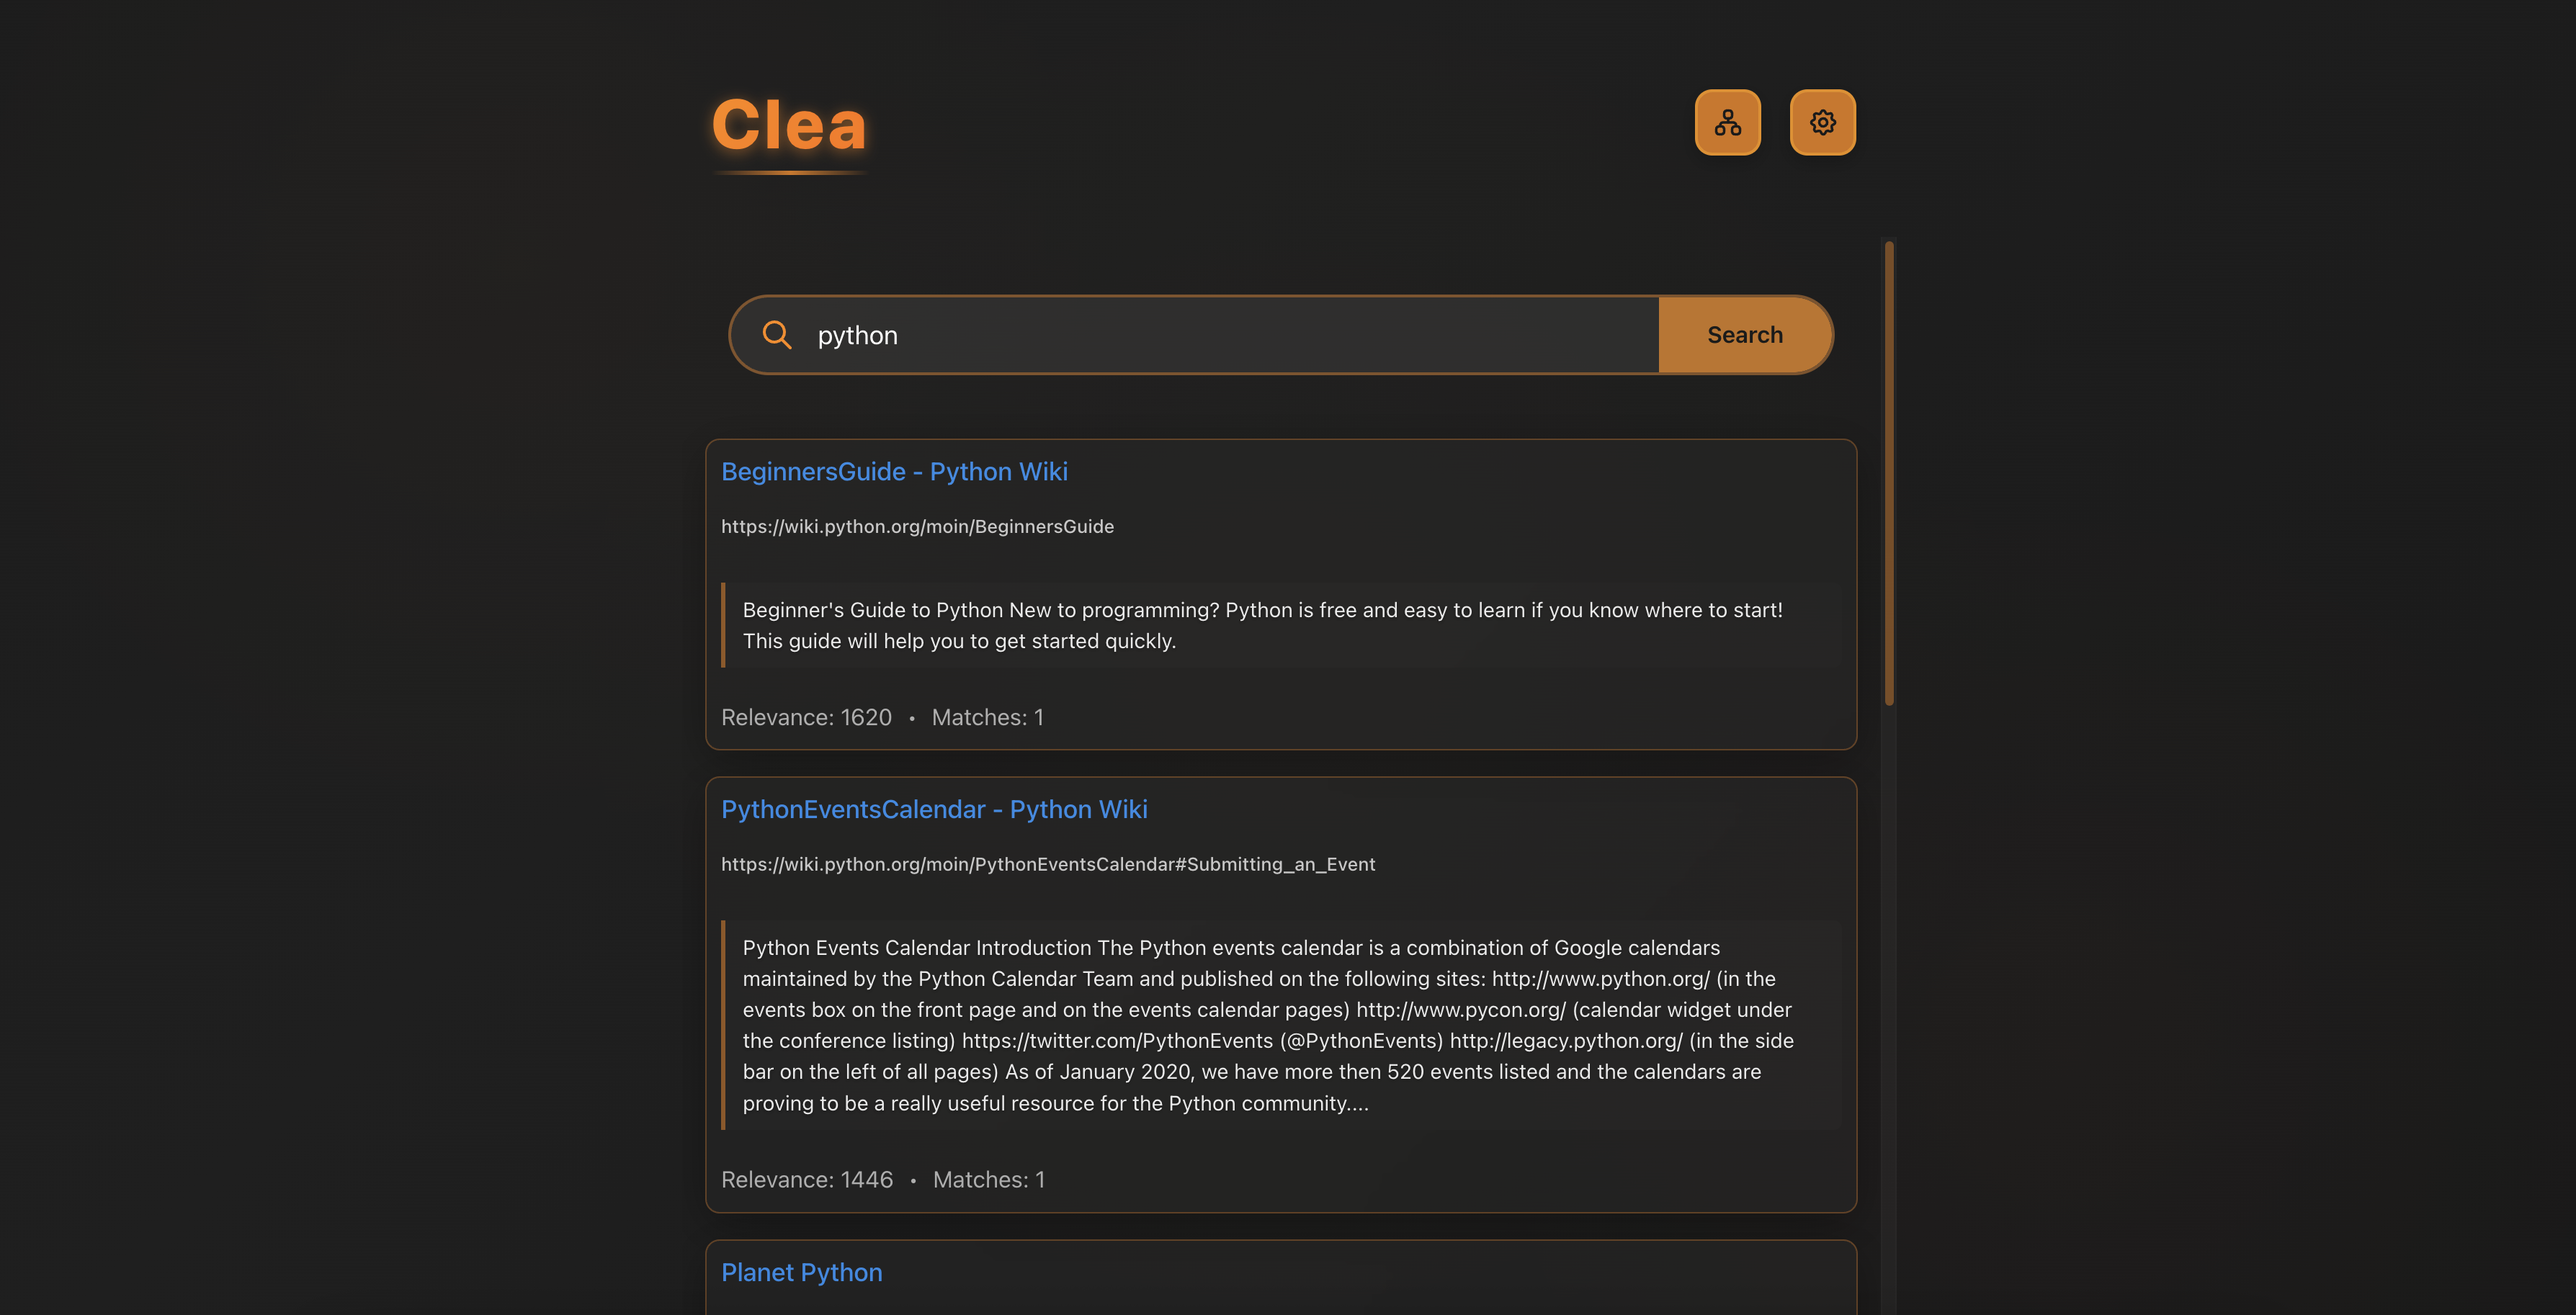
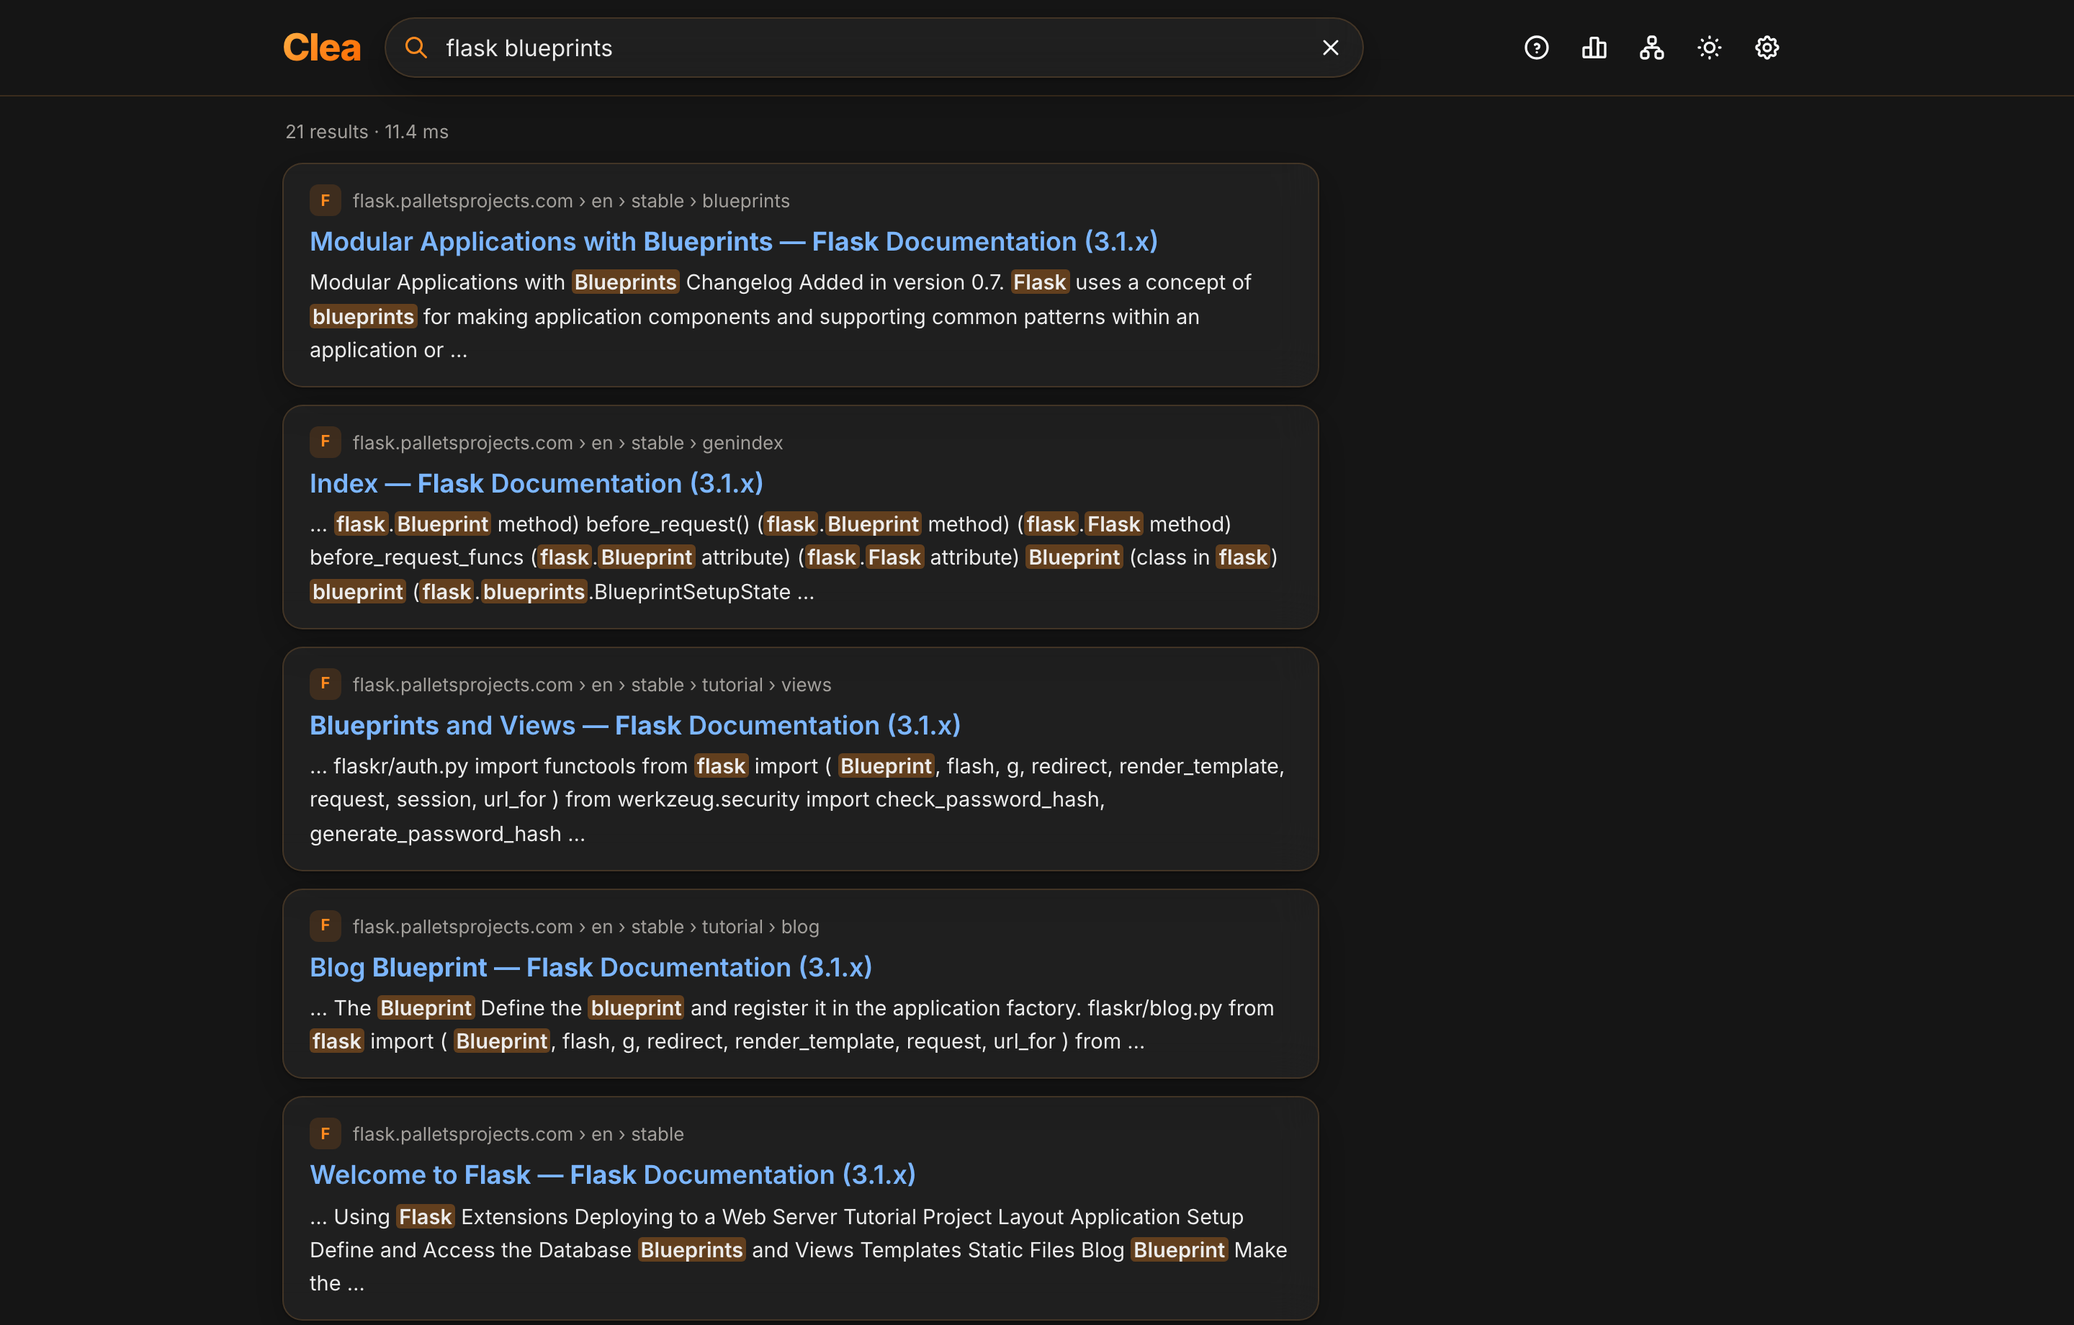
Weight titles and URLs more heavily in ranking; new screenshot
Generated index pages (e.g. Sphinx genindex) mention every term many
times and outranked the page actually about the query. Title weight
10 -> 20, URL weight 3 -> 6 puts the topical page first without changing
other sampled queries.

diff --git a/clea/servir.py b/clea/servir.py
@@ -29,7 +29,7 @@ STOP_WORDS = frozenset(
     "there these they this to was what when where which who why will with you your".split()
 )
 # BM25 column weights: title, description, body, url_terms.
-BM25_WEIGHTS = (10.0, 4.0, 1.0, 3.0)
+BM25_WEIGHTS = (20.0, 4.0, 1.0, 6.0)
 
 
 @dataclass
